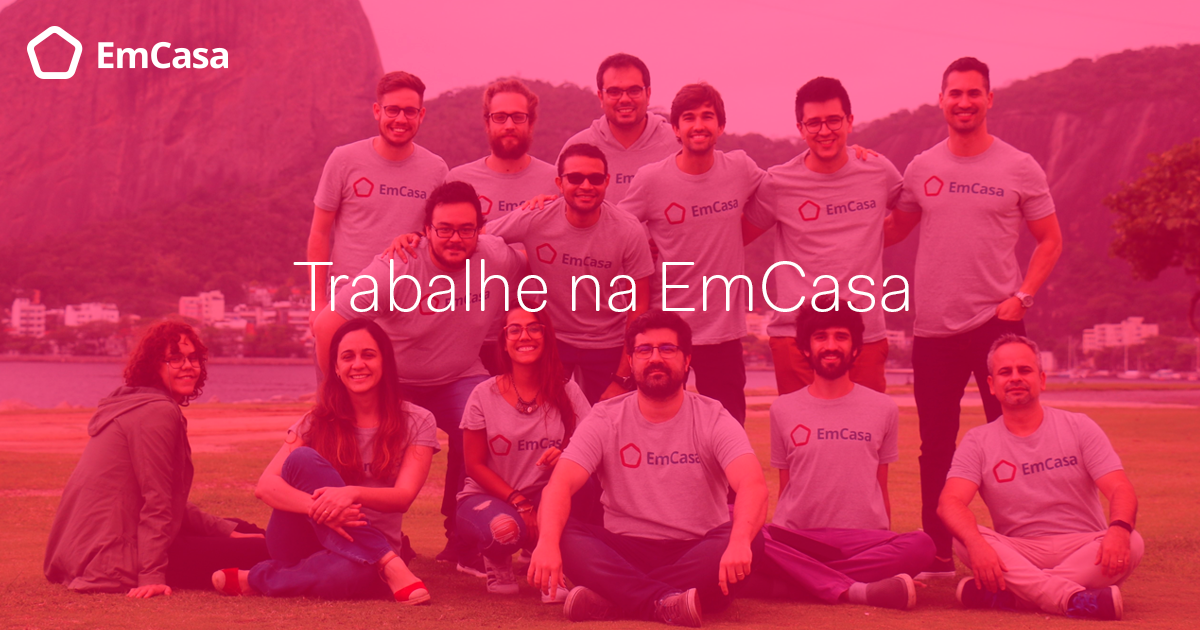
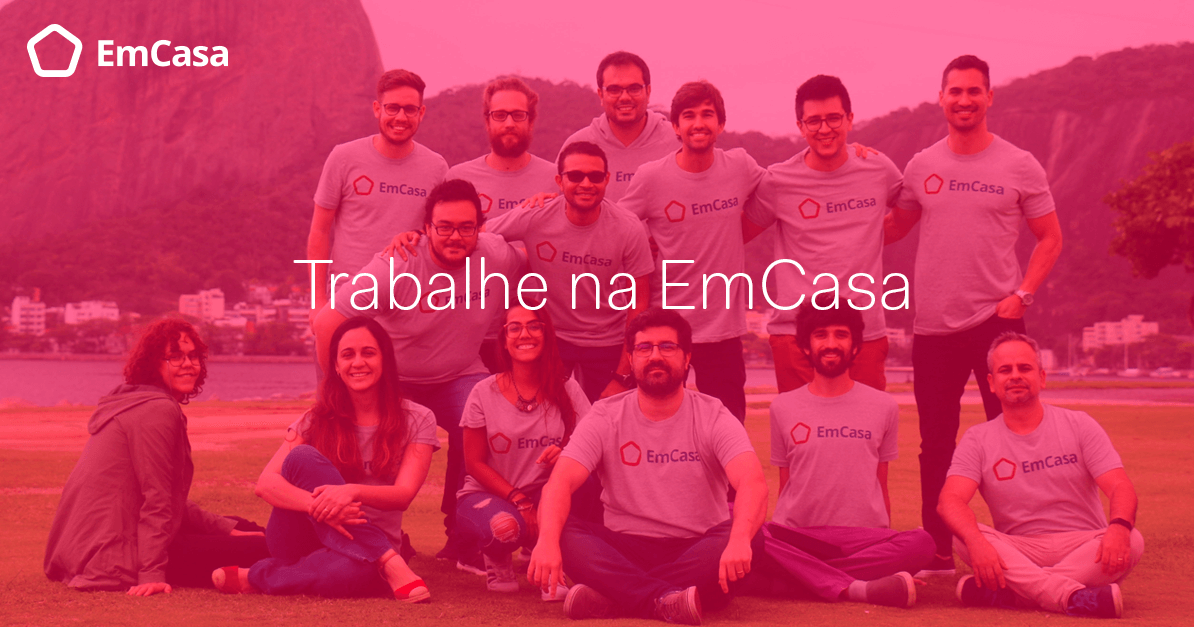
Fixing OpenGraph image sizes (again)

diff --git a/src/components/layout/index.js b/src/components/layout/index.js
@@ -5,7 +5,6 @@ import { StaticQuery, graphql } from 'gatsby'
 
 import Header from './header'
 import opengraphImageHigh from '../../images/opengraph-high.png';
-import opengraphImage from '../../images/opengraph.png';
 import opengraphImageLow from '../../images/opengraph-low.png';
 import './layout.css'
 
@@ -30,7 +29,6 @@ const Layout = ({ children, internal, title }) => (
             { name: 'keywords', content: 'emcasa, startup, real estate tech' },
             { name: 'og:image', content: opengraphImageHigh },
             { name: 'og:image', content: opengraphImageLow },
-            { name: 'image', property: 'og:image', content: opengraphImage }
           ]}
         >
           <html lang="en" />
